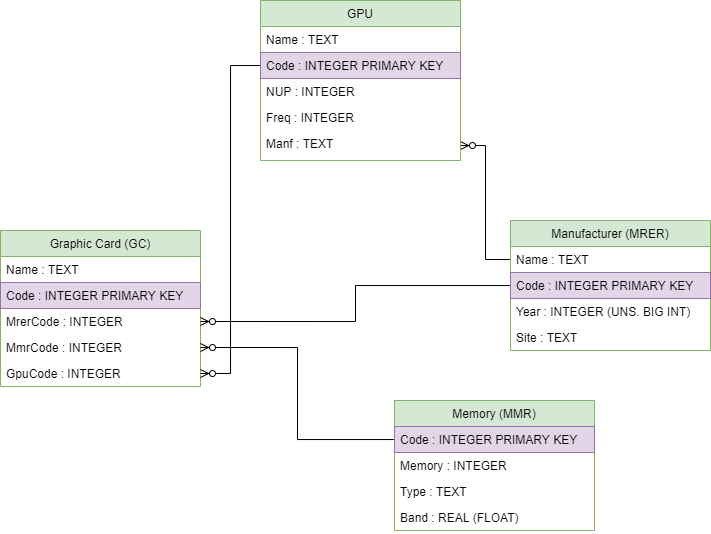
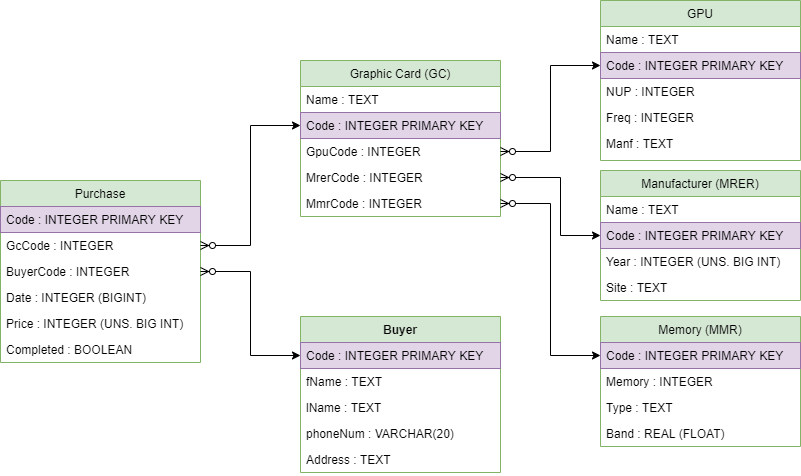
Global Update
Changed ER and UML diagrams

diff --git a/README.md b/README.md
@@ -1,8 +1,8 @@
 # Графический интерфейс с использованием PySide
 Данный проект представляет из себя тестовое приложение с графическим интерфейсом написанное на Python3 с использованием библиотеки PySide и бд SQLite <br>
 ***
-Ниже представлена ER Диаграмма:<br>
+Ниже представлена ER Диаграмма:<br><br>
 ![ER Diagram](er-dia.png) <br>
 ***
-Ниже представлена UML Диаграмма:<br>
+Ниже представлена UML Диаграмма:<br><br>
 ![UML Diagram](uml-dia.png) <br>
